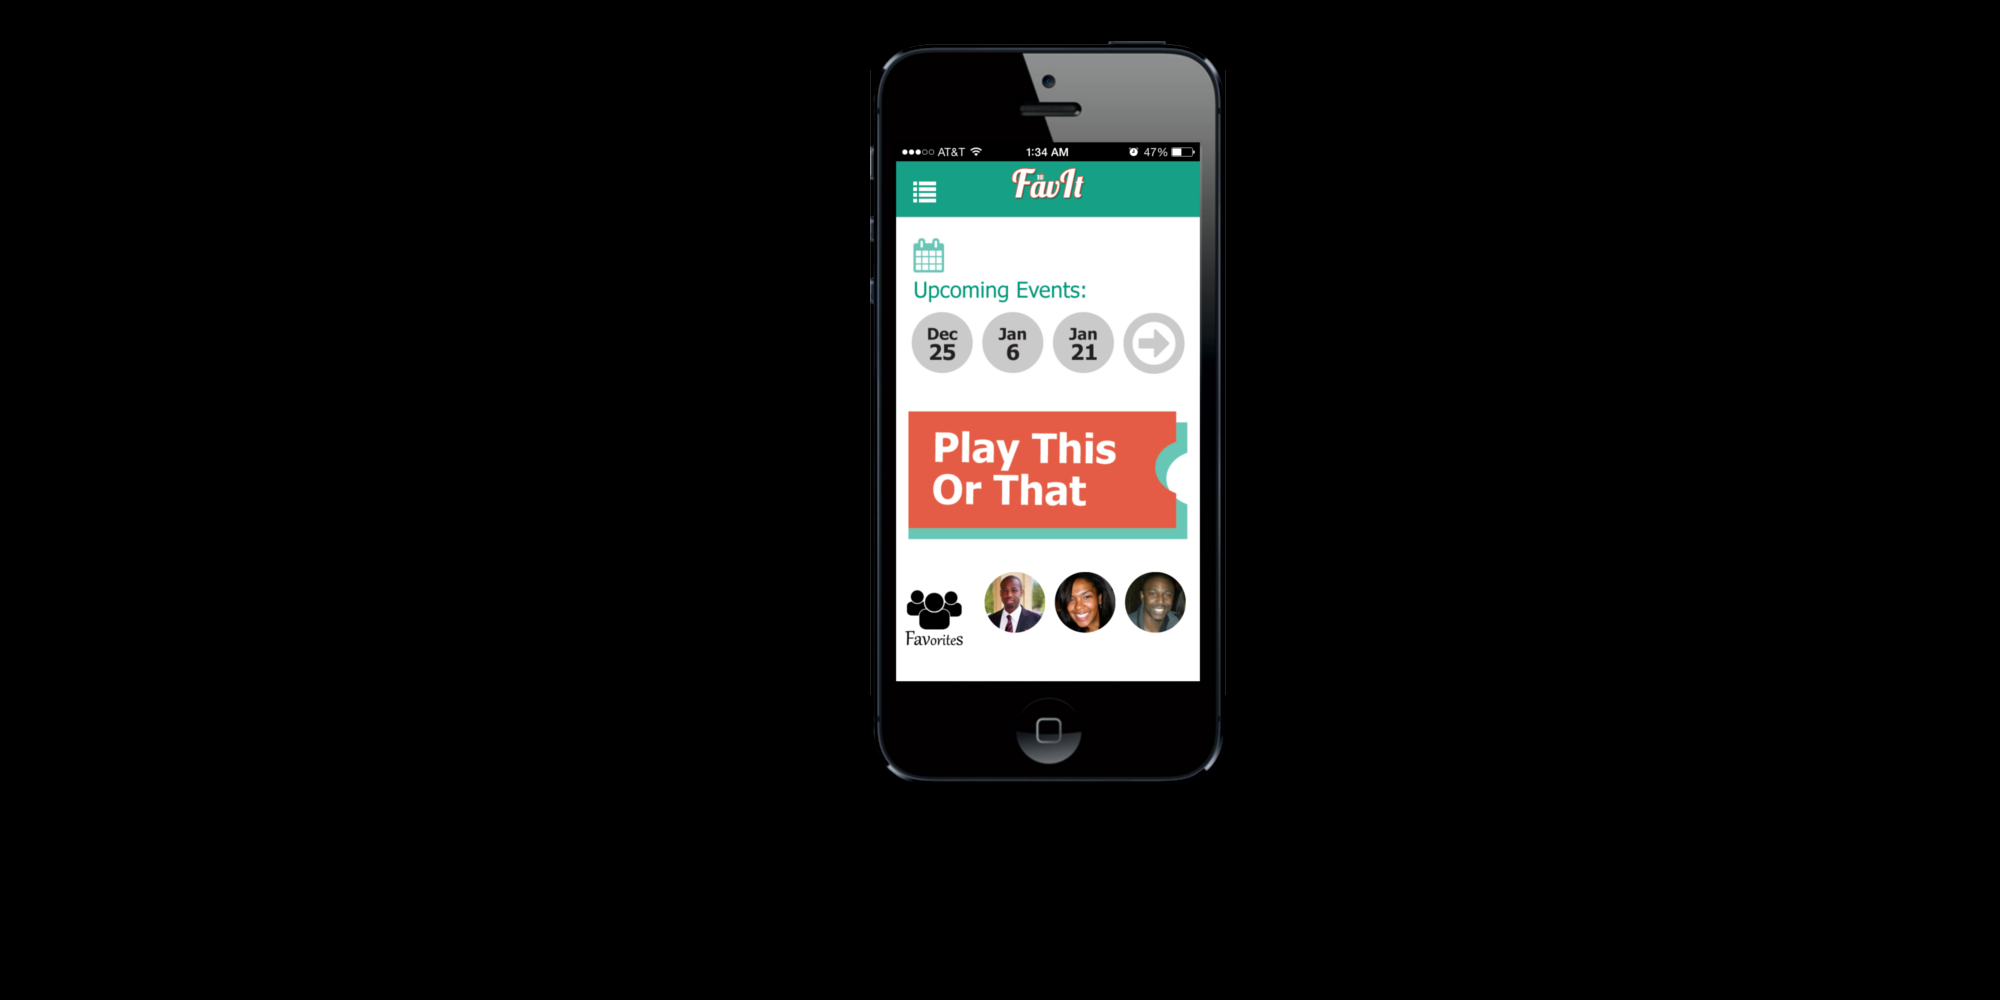
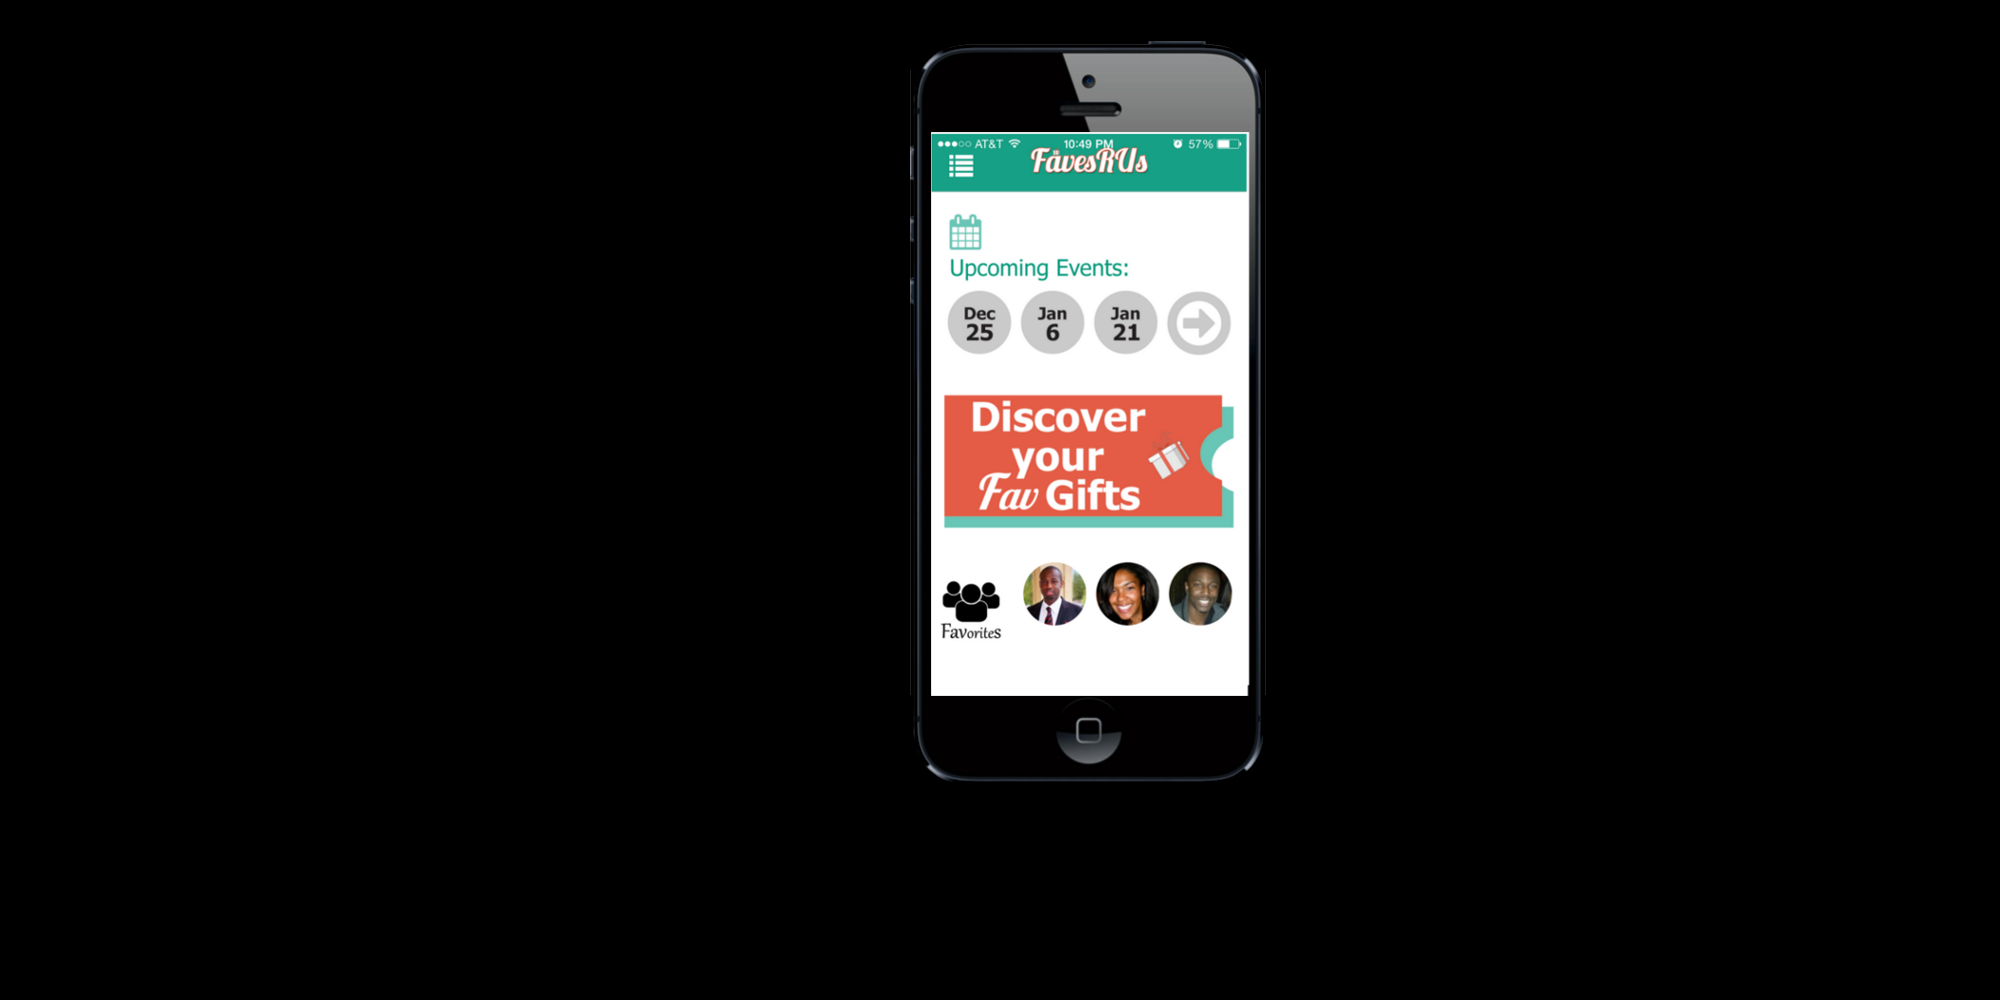
Steady state 12/7 11:40P<

Changed region(s): [[0.434, 0.031, 0.651, 0.775], [0.589, 0.744, 0.651, 0.806]]

diff --git a/server/Favit/Favit.Server/assets/js/init.js b/server/Favit/Favit.Server/assets/js/init.js
@@ -140,7 +140,7 @@ $(document).ready(function() {
 				
 			},
 			error: function () {
-				status.toggleClass('shake').html("Oups, something went wrong!").slideDown();
+				status.toggleClass('shake').html("Oups there was an error :/").slideDown();
 			}
 		});
 	});

diff --git a/server/Favit/Favit.Server/assets/css/style.css b/server/Favit/Favit.Server/assets/css/style.css
@@ -209,10 +209,11 @@ div#header {
          cursor:pointer;
     }
 	div#logo img {
-		text-indent: -3000px;
 		display: block;
-		width:169px;
-		height:69px;
+        margin-left: auto;
+        margin-right: auto;
+		width:319px;
+		height:69px
     }
     
 

diff --git a/server/Favit/Favit.Server/Controllers/HomeController.cs b/server/Favit/Favit.Server/Controllers/HomeController.cs
@@ -41,7 +41,7 @@ namespace Favit.Server.Controllers
             {
                 newsletter emailExists = repo.GetList<newsletter>(n => n.email.ToLower() == email.ToLower()).FirstOrDefault();
 
-                if (emailExists == null && IsValidEmail(email))
+                if (emailExists == null)// && IsValidEmail(email))
                 {
                     // Add to database
                     uow.BeginTransaction();
@@ -69,7 +69,7 @@ namespace Favit.Server.Controllers
             {
                 string to = ConfigurationManager.AppSettings["AdminEmailAddresses"];
                 //Send the message
-                new EmailService().SendEmail(email, name + " - Favit Message", message, to);
+                new EmailService().SendEmail(email, name + " - Faves 'R' Us Message", message, to);
                 return "success";
             }
             else

diff --git a/server/Favit/Favit.Server/App_Start/NinjectConfigurator.cs b/server/Favit/Favit.Server/App_Start/NinjectConfigurator.cs
@@ -28,6 +28,9 @@ namespace Favit.Server.App_Start
         private void AddBindings(IKernel container)
         {
             ConfigureEntityFramework(container);
+
+            container.Bind<IItemService>().To<ItemService>();
+            container.Bind<IRetailerService>().To<RetailerService>();
         }
 
         private void ConfigureEntityFramework(IKernel container)
@@ -36,10 +39,6 @@ namespace Favit.Server.App_Start
             container.Bind<IUnitOfWork>().To<UnitOfWork>();
             container.Bind<IRepository>().To<Repository>();
             container.Bind<ISessionFactory>().To<SessionFactory>().InRequestScope();
-
-            container.Bind<IItemService>().To<ItemService>();
-            container.Bind<IRetailerService>().To<RetailerService>();
-
         }
 
         public class FavitContextProvider : Provider<FavitDBContext>

diff --git a/server/Favit/Favit.Model/Entities/newsletter.cs b/server/Favit/Favit.Model/Entities/newsletter.cs
@@ -19,7 +19,7 @@ namespace Favit.Model.Entities
         public newsletter(string email)
         {
             this.email = email;
-            this.time = DateTime.Now.ToShortTimeString();
+            this.time = DateTime.Now.ToString();
         }
         public virtual string email { get; set;}
         public virtual string time { get; set; }

diff --git a/server/Favit/Favit.Server/App_Start/NinjectDependencyResolver.cs b/server/Favit/Favit.Server/App_Start/NinjectDependencyResolver.cs
@@ -5,7 +5,7 @@ using System.Web.Http.Dependencies;
 
 namespace Favit.Server
 {
-    public class NinjectDependencyResolver : IDependencyResolver
+    public class NinjectDependencyResolver : IDependencyResolver, System.Web.Mvc.IDependencyResolver
     {
         private readonly IKernel _container;
 

diff --git a/server/Favit/Favit.BLL/BaseService.cs b/server/Favit/Favit.BLL/BaseService.cs
@@ -15,8 +15,8 @@ namespace Favit.BLL
 
         public BaseService(IRepository repo, IUnitOfWork uow)
         {
-            uow = uow;
-            repo = repo;
+            this.uow = uow;
+            this.repo = repo;
         }
     }
 }
